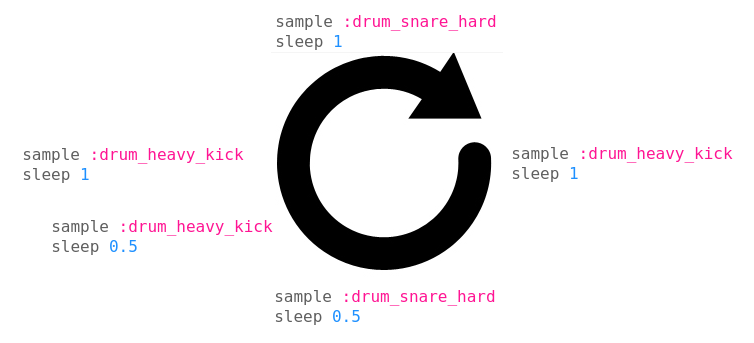
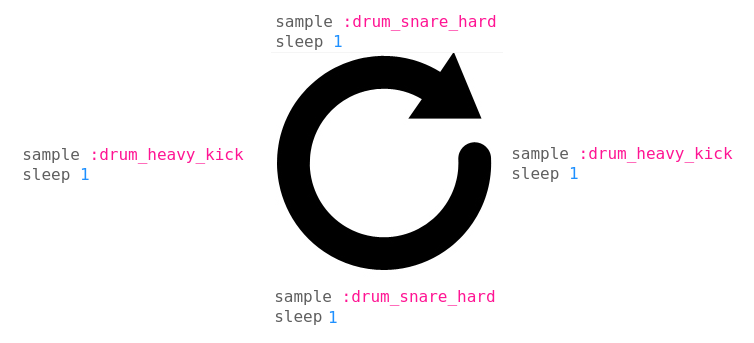
simpler example drum beat

Changed region(s): [[0.061, 0.6414, 0.366, 0.758], [0.4271, 0.9038, 0.4881, 0.9621]]

diff --git a/_exercises/02-make-a-song/02-drum-beat.md b/_exercises/02-make-a-song/02-drum-beat.md
@@ -14,7 +14,7 @@ live_loop :drums do
 end
 {% endhighlight %}
 
-Now you have your empty loop. Let's do a simple backbeat with kick drum on 1, 2.5 and 3, snare on 2 and 4. Instead of playing notes, you will be triggering samples. It's as simple as writing `sample :sample_name`. Here's an example drumbeat:
+Now you have your empty loop. Let's do a simple backbeat with kick drum on 1 and 3, snare on 2 and 4. Instead of playing notes, you will be triggering samples. It's as simple as writing `sample :sample_name`. Here's an example drumbeat:
 
 {% highlight ruby %}
 use_bpm 100
@@ -23,9 +23,7 @@ live_loop :drums do
   sample :drum_heavy_kick
   sleep 1
   sample :drum_snare_hard
-  sleep 0.5
-  sample :drum_heavy_kick
-  sleep 0.5
+  sleep 1
   sample :drum_heavy_kick
   sleep 1
   sample :drum_snare_hard
@@ -35,7 +33,7 @@ end
 
 That's a steady backbeat. Change the tempo and play with the samples. When you start writing the sample name, you can browse different samples with the auto-complete feature. Try different samples and check out what they sound like.
 
-The `:drums` loop starts with a kick, plays snare on the two, kick on the and of two and on three, then a snare on the four. Then the loop starts again:
+The `:drums` loop starts with a kick, plays snare on the two, kick on three, then a snare on the four. Then the loop starts again:
 
 <img src="{{ "/img/live_loop.png" | prepend: site.baseurl}}">
 
@@ -72,9 +70,7 @@ live_loop :drums do
   sample :drum_heavy_kick
   sleep 1
   sample :drum_snare_hard
-  sleep 0.5
-  sample :drum_heavy_kick
-  sleep 0.5
+  sleep 1
   sample :drum_heavy_kick
   sleep 1
   sample :drum_snare_hard

diff --git a/_exercises/02-make-a-song/03-bass-track.md b/_exercises/02-make-a-song/03-bass-track.md
@@ -70,9 +70,7 @@ live_loop :drums do
   sample :drum_heavy_kick
   sleep 1
   sample :drum_snare_hard
-  sleep 0.5
-  sample :drum_heavy_kick
-  sleep 0.5
+  sleep 1
   sample :drum_heavy_kick
   sleep 1
   sample :drum_snare_hard

diff --git a/_exercises/02-make-a-song/04-lead.md b/_exercises/02-make-a-song/04-lead.md
@@ -46,9 +46,7 @@ live_loop :drums do
   sample :drum_heavy_kick
   sleep 1
   sample :drum_snare_hard
-  sleep 0.5
-  sample :drum_heavy_kick
-  sleep 0.5
+  sleep 1
   sample :drum_heavy_kick
   sleep 1
   sample :drum_snare_hard

diff --git a/_exercises/02-make-a-song/05-add-randomization.md b/_exercises/02-make-a-song/05-add-randomization.md
@@ -89,9 +89,7 @@ live_loop :drums do
   sample :drum_heavy_kick
   sleep 1
   sample :drum_snare_hard
-  sleep 0.5
-  sample :drum_heavy_kick
-  sleep 0.5
+  sleep 1
   sample :drum_heavy_kick
   sleep 1
   sample :drum_snare_hard
